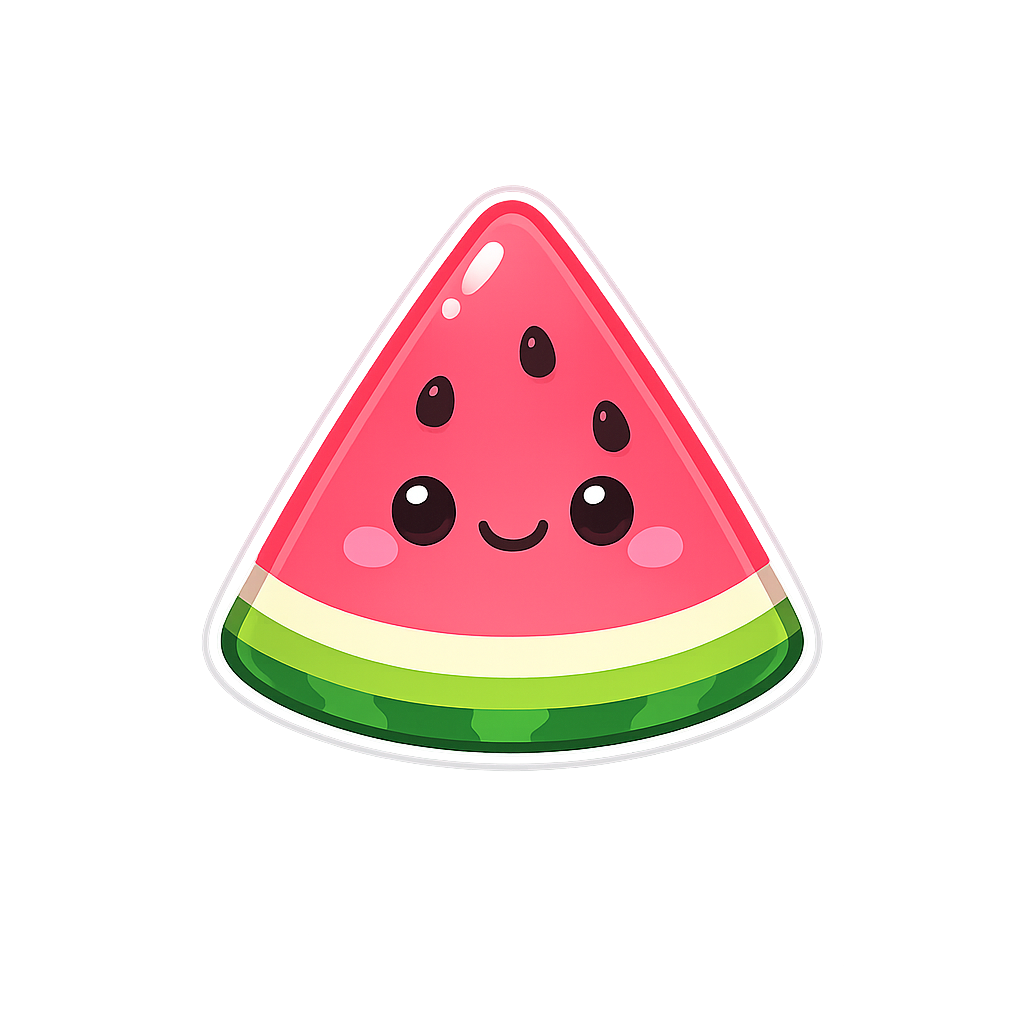
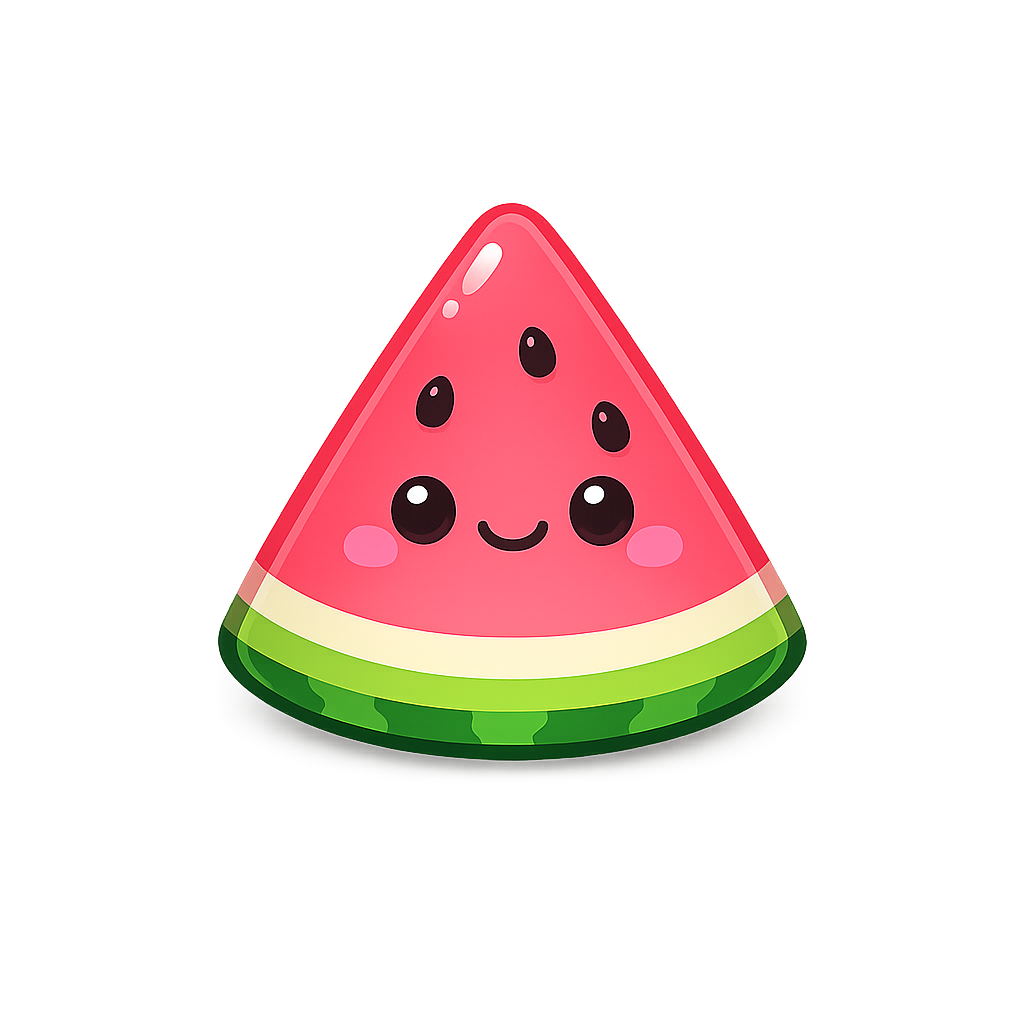
Refine score HUD layout and fever x2 cloud badge

diff --git a/scripts/game.js b/scripts/game.js
@@ -254,21 +254,27 @@
       const ASSET_PRELOAD_TIMEOUT_MS = 1800;
       const ASSET_RETRY_MAX = 1;
       const ASSET_START_REQUIRED_RATIO = 0.0;
+      // Bump this when image assets are replaced so browsers fetch fresh files.
+      const ASSET_VERSION = '2026-02-13-1';
+
+      function withAssetVersion(path) {
+        return `${path}?v=${encodeURIComponent(ASSET_VERSION)}`;
+      }
 
       const IMAGE_MANIFEST = {
-        fruit_apple: 'assets/images/game-objects/fruit_apple_v2.png',
-        fruit_banana: 'assets/images/game-objects/fruit_banana_v2.png',
-        fruit_orange: 'assets/images/game-objects/fruit_orange_v2.png',
-        fruit_peach: 'assets/images/game-objects/fruit_peach_v2.png',
-        fruit_strawberry: 'assets/images/game-objects/fruit_strawberry_v2.png',
-        fruit_grape: 'assets/images/game-objects/fruit_grape_v2.png',
-        fruit_watermelon: 'assets/images/game-objects/fruit_watermelon_v2.png',
-        hazard_bug: 'assets/images/game-objects/hazard_bug_v2.png',
-        bonus_star: 'assets/images/game-objects/bonus_star_v2.png',
-        basket_default: 'assets/images/game-objects/basket_default_v1.png',
-        fx_bug_hit: 'assets/images/game-effects/fx_bug_hit_v1.png',
-        fx_star_burst: 'assets/images/game-effects/fx_star_burst_v1.png',
-        fx_fruit_pop: 'assets/images/game-effects/fx_fruit_pop_v1.png'
+        fruit_apple: withAssetVersion('assets/images/game-objects/fruit_apple_v2.png'),
+        fruit_banana: withAssetVersion('assets/images/game-objects/fruit_banana_v2.png'),
+        fruit_orange: withAssetVersion('assets/images/game-objects/fruit_orange_v2.png'),
+        fruit_peach: withAssetVersion('assets/images/game-objects/fruit_peach_v2.png'),
+        fruit_strawberry: withAssetVersion('assets/images/game-objects/fruit_strawberry_v2.png'),
+        fruit_grape: withAssetVersion('assets/images/game-objects/fruit_grape_v2.png'),
+        fruit_watermelon: withAssetVersion('assets/images/game-objects/fruit_watermelon_v2.png'),
+        hazard_bug: withAssetVersion('assets/images/game-objects/hazard_bug_v2.png'),
+        bonus_star: withAssetVersion('assets/images/game-objects/bonus_star_v2.png'),
+        basket_default: withAssetVersion('assets/images/game-objects/basket_default_v1.png'),
+        fx_bug_hit: withAssetVersion('assets/images/game-effects/fx_bug_hit_v1.png'),
+        fx_star_burst: withAssetVersion('assets/images/game-effects/fx_star_burst_v1.png'),
+        fx_fruit_pop: withAssetVersion('assets/images/game-effects/fx_fruit_pop_v1.png')
       };
 
       const imageCache = new Map();
@@ -815,7 +821,7 @@
       }
 
       function getFruitPopTintColor(fruitKind) {
-        return fruitKind === 'watermelon' ? '#ff1a1a' : getFruitStyle(fruitKind).base;
+        return getFruitStyle(fruitKind).base;
       }
 
       function getFruitPopTintSource(baseImg, tintColor) {
@@ -850,8 +856,10 @@
         score += got;
         syncScoreDisplay();
 
-        const scoreText = multiplier > 1 ? `${basePts}x${multiplier} = +${got}` : `+${got}`;
-        addFloatText(o.x, o.y - 12, scoreText, multiplier > 1 ? '#ffd670' : o.color);
+        const scoreText = `＋${basePts}`;
+        addFloatText(o.x, o.y - 12, scoreText, o.color, {
+          badgeText: multiplier > 1 ? '×2' : ''
+        });
         if (multiplier > 1) triggerFeverHitFeedback(o.x, o.y, '#ffd670');
       }
 
@@ -1560,14 +1568,15 @@
         }
       }
 
-      function addFloatText(x, y, text, color) {
+      function addFloatText(x, y, text, color, options = null) {
         floatTexts.push({
           x, y,
           vy: -90,
           t: 0,
           life: 0.85,
           text,
-          color
+          color,
+          badgeText: options?.badgeText || ''
         });
       }
 
@@ -1819,6 +1828,38 @@
         ctx.arcTo(x+w,y+h,x,y+h,rr);
         ctx.arcTo(x,y+h,x,y,rr);
         ctx.arcTo(x,y,x+w,y,rr);
+        ctx.closePath();
+      }
+
+      function drawCloudBadgePath(x, y, w, h) {
+        ctx.beginPath();
+        ctx.moveTo(x + w * 0.20, y + h * 0.86);
+        ctx.bezierCurveTo(
+          x + w * 0.04, y + h * 0.92,
+          x + w * 0.01, y + h * 0.66,
+          x + w * 0.16, y + h * 0.56
+        );
+        ctx.bezierCurveTo(
+          x + w * 0.05, y + h * 0.42,
+          x + w * 0.11, y + h * 0.14,
+          x + w * 0.32, y + h * 0.22
+        );
+        ctx.bezierCurveTo(
+          x + w * 0.40, y + h * 0.03,
+          x + w * 0.61, y + h * 0.02,
+          x + w * 0.69, y + h * 0.20
+        );
+        ctx.bezierCurveTo(
+          x + w * 0.87, y + h * 0.10,
+          x + w * 1.00, y + h * 0.26,
+          x + w * 0.88, y + h * 0.48
+        );
+        ctx.bezierCurveTo(
+          x + w * 1.01, y + h * 0.62,
+          x + w * 0.90, y + h * 0.91,
+          x + w * 0.66, y + h * 0.84
+        );
+        ctx.lineTo(x + w * 0.22, y + h * 0.86);
         ctx.closePath();
       }
 
@@ -2182,8 +2223,9 @@
         }
         ctx.restore();
 
-        ctx.strokeStyle = '#f5ffe5';
-        ctx.lineWidth = Math.max(2, r * 0.1);
+        // Keep watermelon rim close to other fruits to avoid a hard white outline.
+        ctx.strokeStyle = 'rgba(180,245,208,.58)';
+        ctx.lineWidth = Math.max(1.4, r * 0.075);
         ctx.beginPath();
         ctx.arc(0, 0, r * 0.92, 0, Math.PI * 2);
         ctx.stroke();
@@ -2988,6 +3030,46 @@
           textFill.addColorStop(1, '#fffdf4');
           ctx.fillStyle = textFill;
           ctx.fillText(ft.text, 0, 0);
+
+          if (ft.badgeText) {
+            const mainWidth = ctx.measureText(ft.text).width;
+            const badgeFontSize = fontSize;
+            ctx.font = `${canvasBodyFontWeight} ${badgeFontSize}px ${canvasBodyFontFamily}`;
+            const badgePadX = Math.round(fontSize * 0.52);
+            const badgeH = Math.round(fontSize * 1.02);
+            const badgeW = Math.round(ctx.measureText(ft.badgeText).width + badgePadX * 2);
+            const badgeCx = mainWidth * 0.36 + badgeW * 0.56;
+            const badgeCy = -fontSize * 0.12;
+            const badgeX = -badgeW * 0.5;
+            const badgeY = -badgeH * 0.5;
+            const badgeAngle = 12 * Math.PI / 180;
+
+            ctx.save();
+            ctx.translate(badgeCx, badgeCy);
+            ctx.rotate(badgeAngle);
+
+            const badgeFill = ctx.createLinearGradient(0, badgeY, 0, badgeY + badgeH);
+            badgeFill.addColorStop(0, '#fffef8');
+            badgeFill.addColorStop(1, '#ece9e2');
+            ctx.shadowColor = 'rgba(46,53,72,.22)';
+            ctx.shadowBlur = Math.max(6, fontSize * 0.22);
+            ctx.shadowOffsetY = Math.max(2, fontSize * 0.08);
+            ctx.fillStyle = badgeFill;
+            drawCloudBadgePath(badgeX, badgeY, badgeW, badgeH);
+            ctx.fill();
+
+            ctx.shadowColor = 'transparent';
+            ctx.shadowBlur = 0;
+            ctx.shadowOffsetY = 0;
+            ctx.strokeStyle = 'rgba(104,101,116,.72)';
+            ctx.lineWidth = Math.max(1.4, fontSize * 0.12);
+            drawCloudBadgePath(badgeX, badgeY, badgeW, badgeH);
+            ctx.stroke();
+
+            ctx.fillStyle = '#5b5664';
+            ctx.fillText(ft.badgeText, 0, badgeFontSize * 0.02);
+            ctx.restore();
+          }
           ctx.restore();
         }
       }

diff --git a/styles/main.css b/styles/main.css
@@ -188,9 +188,25 @@
 
     .score-card .stat-value{
       color:#ff5b9c;
+      margin-top:0;
+      align-self:end;
       text-shadow:
         0 2px 0 rgba(255,255,255,.84),
         0 0 12px rgba(255,129,177,.28);
+    }
+
+    .score-card{
+      grid-template-rows:auto auto;
+      align-content:start;
+      gap:calc(8px * var(--hud-scale));
+      padding-top:calc(8px * var(--hud-scale));
+    }
+
+    .score-card .stat-label{
+      position:relative;
+      z-index:3;
+      line-height:1.05;
+      margin-left:calc(1px * var(--hud-scale));
     }
 
     .score-shell{
@@ -199,7 +215,7 @@
       align-items:center;
       gap:8px;
       min-width:0;
-      padding:3px 10px;
+      padding:4px 12px 5px;
       border-radius:999px;
       isolation:isolate;
     }
@@ -207,7 +223,7 @@
     .score-shell::before{
       content:"";
       position:absolute;
-      inset:-9px -14px;
+      inset:-3px -10px -6px -10px;
       border-radius:999px;
       z-index:-1;
       opacity:0;
@@ -719,6 +735,19 @@
       .stat-card{
         border-radius:16px;
         padding:8px 9px;
+      }
+
+      .score-card{
+        gap:4px;
+        padding-top:7px;
+      }
+
+      .score-card .stat-value{
+        margin-top:0;
+      }
+
+      .score-shell::before{
+        inset:-2px -8px -5px -8px;
       }
 
       .stat-label{
